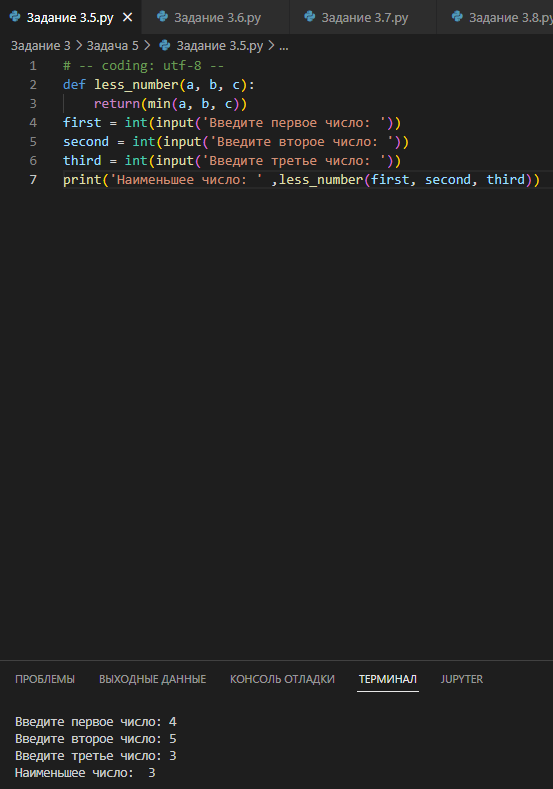
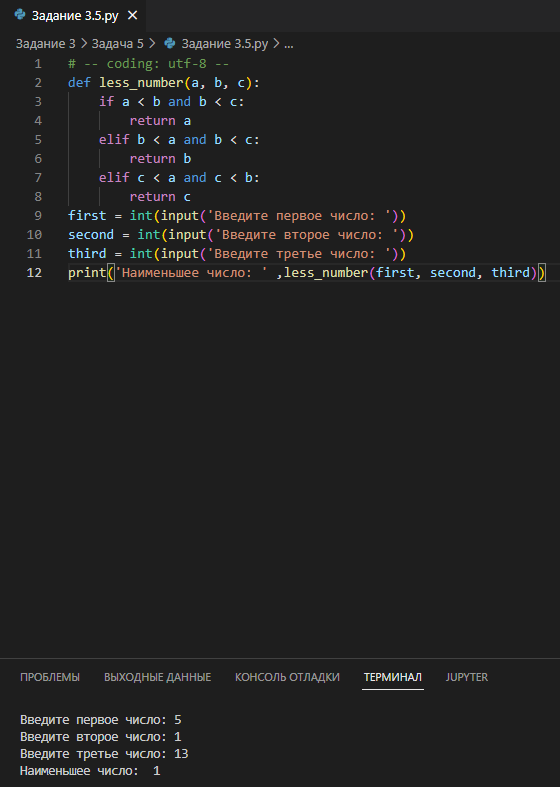
Add files via upload

diff --git a/Задание 3/Задача 5/Задание 3.5.py b/Задание 3/Задача 5/Задание 3.5.py
@@ -1,6 +1,11 @@
 # -- coding: utf-8 --
 def less_number(a, b, c):
-    return(min(a, b, c))
+    if a < b and b < c:
+        return a
+    elif b < a and b < c:
+        return b
+    elif c < a and c < b:
+        return c
 first = int(input('Введите первое число: '))
 second = int(input('Введите второе число: '))
 third = int(input('Введите третье число: '))
